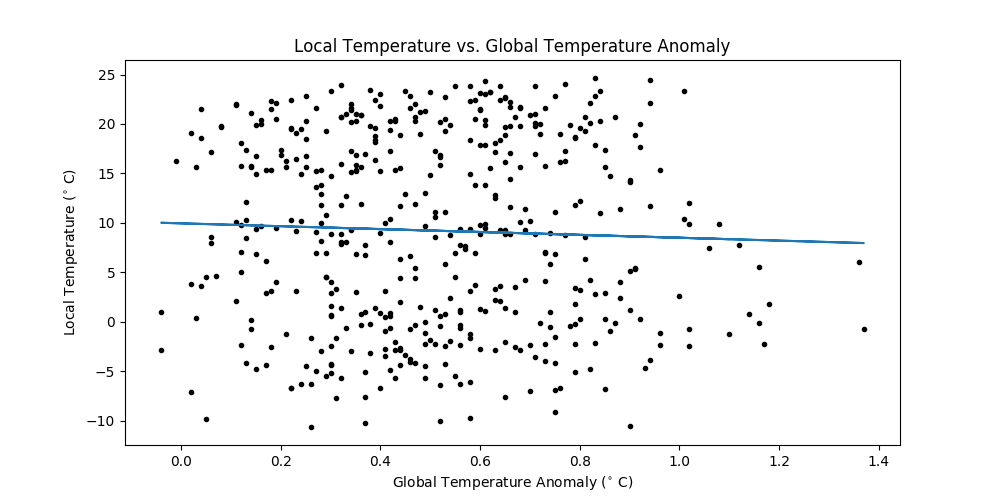
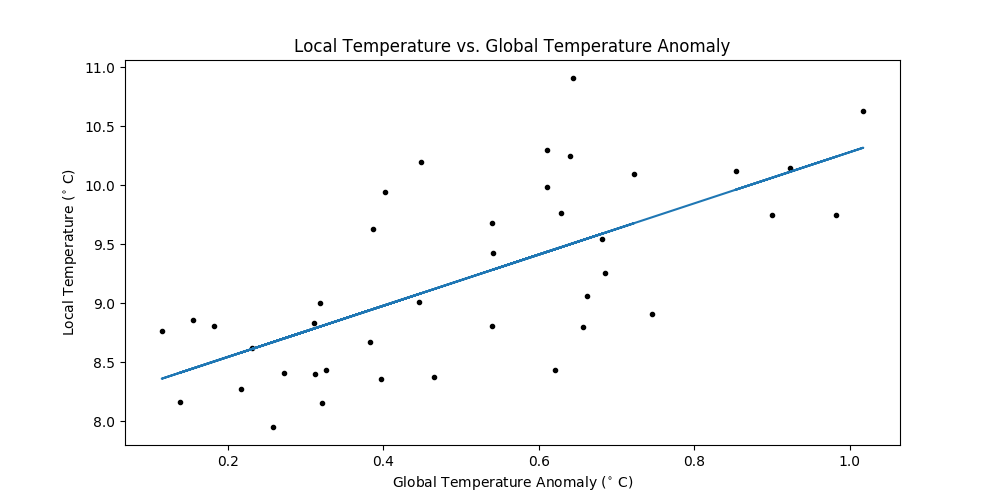
Clean up plotting script. Switch to year-wise average for comparison plots.

diff --git a/scripts/makeplots.py b/scripts/makeplots.py
@@ -5,28 +5,42 @@ from tools import DataLoader
 dl = DataLoader()
 data = dl.load(unpack=True)
 
-localdata = data['local']
-globaldata = data['global']
-soidata =  data['soi']
+year, month, local_temp = data['local']
+global_temp = data['global'][2]
+soi =  data['soi'][2]
+
+t = np.array(list(set(year)))  # 1980, 1981, ..., 2019
+
+def year_wise_average(a):
+	'''Take year-wise average of local temperature by converting
+	1D (480,) temp array into (40, 12) array, then taking the average
+	of this new array along axis 1 resulting in (40,) array.'''
+	return np.mean(a.reshape(-1, 12), axis=1)
+
+# save original month-wise
+m_local_temp = local_temp
+m_global_temp = global_temp
+m_soi =soi
+
+# convert all data to year-wise averages
+local_temp = year_wise_average(local_temp)
+global_temp = year_wise_average(global_temp)
+soi = year_wise_average(soi)
 
 # set figure size
 plt.figure(figsize=(10,5))
-
 
 # fits
 # ---------------------------------------------------------
 ## local vs. time
 ### scatter data points
-year, month, temp = localdata
-t = np.array(list(set(year)))  # 1980, 1981, ..., 2019
-temp = np.mean(temp.reshape(-1, 12), axis=1)  # year-wise average
-plt.scatter(t, temp, marker='.', c='black')
+plt.scatter(t, local_temp, marker='.', c='black')
 ### label axes and title graph
 plt.title('Local Temperature Trend Over Last 40 Years')
 plt.xlabel('Year')
 plt.ylabel('Temperature ($^{\circ}$ C)')
 ### plot best fit line
-m, b = np.polyfit(t, temp, deg=1)
+m, b = np.polyfit(t, local_temp, deg=1)
 plt.plot(t, m*t+b, c='red')
 ### output plot to png
 plt.savefig('../plots/fits/local.png')
@@ -34,20 +48,16 @@ plt.savefig('../plots/fits/local.png')
 plt.clf()
 # ---------------------------------------------------------
 ## global vs. time
-temp = globaldata[2]
-temp = np.mean(temp.reshape(-1, 12), axis=1)
-plt.scatter(t, temp, marker='.', c='black')
+plt.scatter(t, global_temp, marker='.', c='black')
 plt.title('Global Temperature Trend Over Last 40 Years')
 plt.xlabel('Year')
 plt.ylabel('Temperature Anomaly ($^{\circ}$ C)')
-m, b = np.polyfit(t, temp, deg=1)
+m, b = np.polyfit(t, global_temp, deg=1)
 plt.plot(t, m*t+b, c='green')
 plt.savefig('../plots/fits/global.png')
 plt.clf()
 # ---------------------------------------------------------
 ## soi vs. time
-soi = soidata[2]
-soi = np.mean(soi.reshape(-1, 12), axis=1)
 plt.scatter(t, soi, marker='.', c='black')
 plt.title('Southern Oscillation Index Trend Over Last 40 Years')
 plt.ylabel('SOI')
@@ -62,8 +72,6 @@ plt.clf()
 # compare
 # ---------------------------------------------------------
 ## local temp vs. global temp (a)
-local_temp = localdata[2]
-global_temp = globaldata[2]
 plt.scatter(global_temp, local_temp, marker='.', c='black')
 plt.title('Local Temperature vs. Global Temperature Anomaly')
 plt.ylabel('Local Temperature ($^{\circ}$ C)')
@@ -74,7 +82,6 @@ plt.savefig('../plots/compare/local_vs_global.png')
 plt.clf()
 # ---------------------------------------------------------
 ## local temp vs. soi
-soi = soidata[2]
 plt.scatter(soi, local_temp, marker='.', c='black')
 plt.title('Local Temperature vs. Global Temperature Anomaly')
 plt.ylabel('Local Temperature ($^{\circ}$ C)')
@@ -90,7 +97,7 @@ plt.clf()
 # ---------------------------------------------------------
 ## local temp
 nbins = 100
-plt.hist(local_temp, nbins, color='red')
+plt.hist(m_local_temp, nbins, color='red')
 plt.title('Local Temperature Histogram')
 plt.xlabel('Temperature ($^{\circ}$ C)')
 plt.ylabel('Occurences')
@@ -98,7 +105,7 @@ plt.savefig('../plots/histogram/local.png')
 plt.clf()
 # ---------------------------------------------------------
 ## global temp
-plt.hist(global_temp, nbins, color='green')
+plt.hist(m_global_temp, nbins, color='green')
 plt.title('Global Temperature Histogram')
 plt.xlabel('Temperature Anomaly ($^{\circ}$ C)')
 plt.ylabel('Occurences')
@@ -106,7 +113,7 @@ plt.savefig('../plots/histogram/global.png')
 plt.clf()
 # ---------------------------------------------------------
 ## soi
-plt.hist(soi, nbins, color='purple')
+plt.hist(m_soi, nbins, color='purple')
 plt.title('Southern Oscillation Index Histogram')
 plt.xlabel('SOI')
 plt.ylabel('Occurences')
